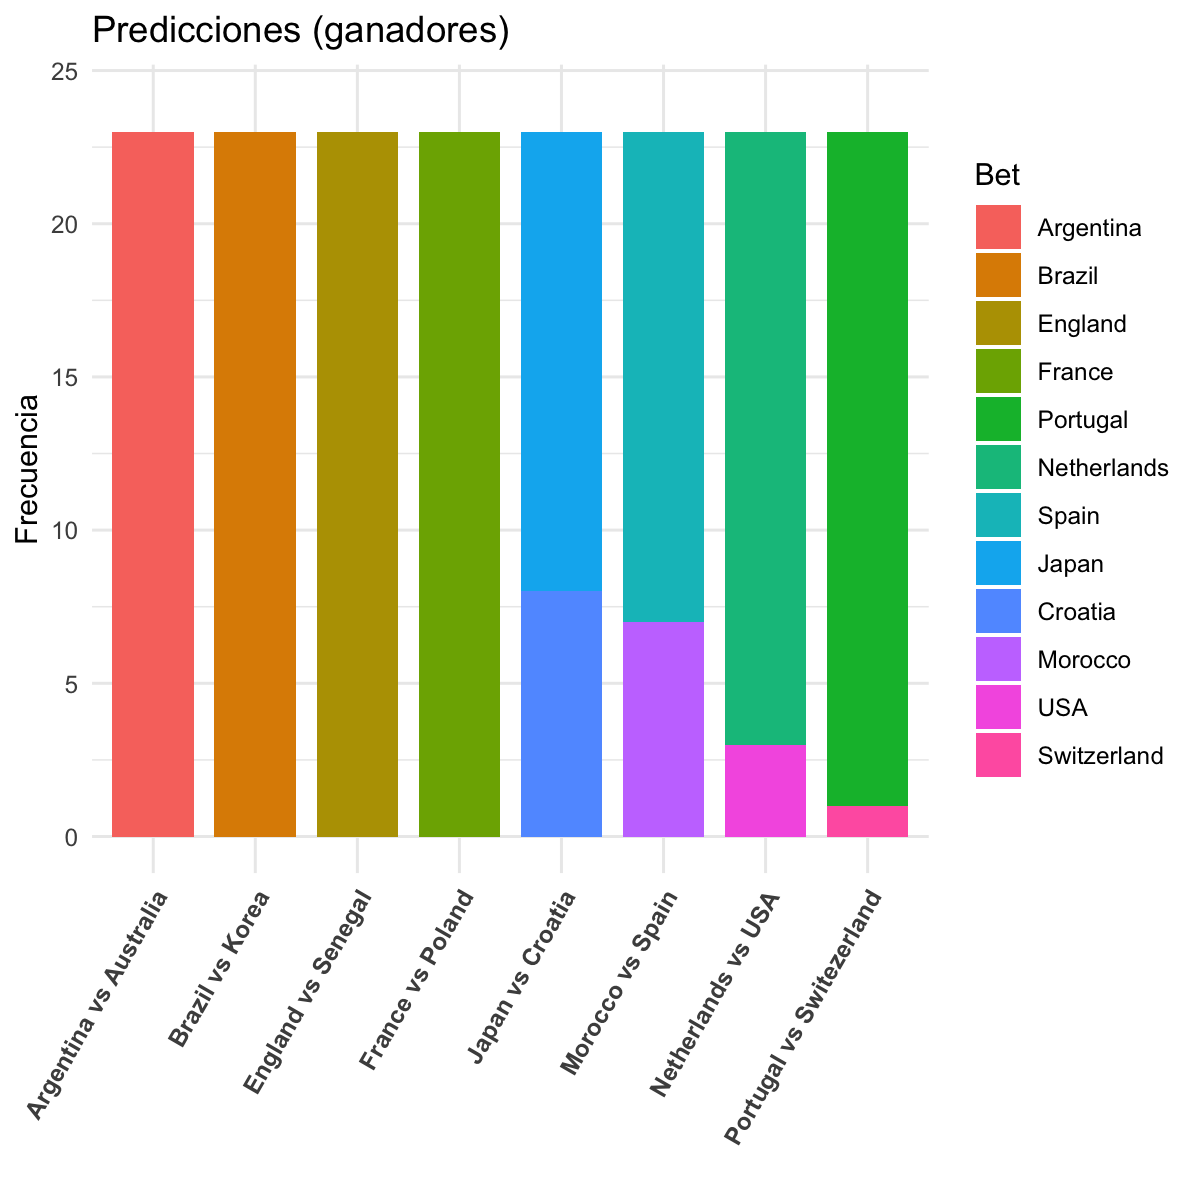
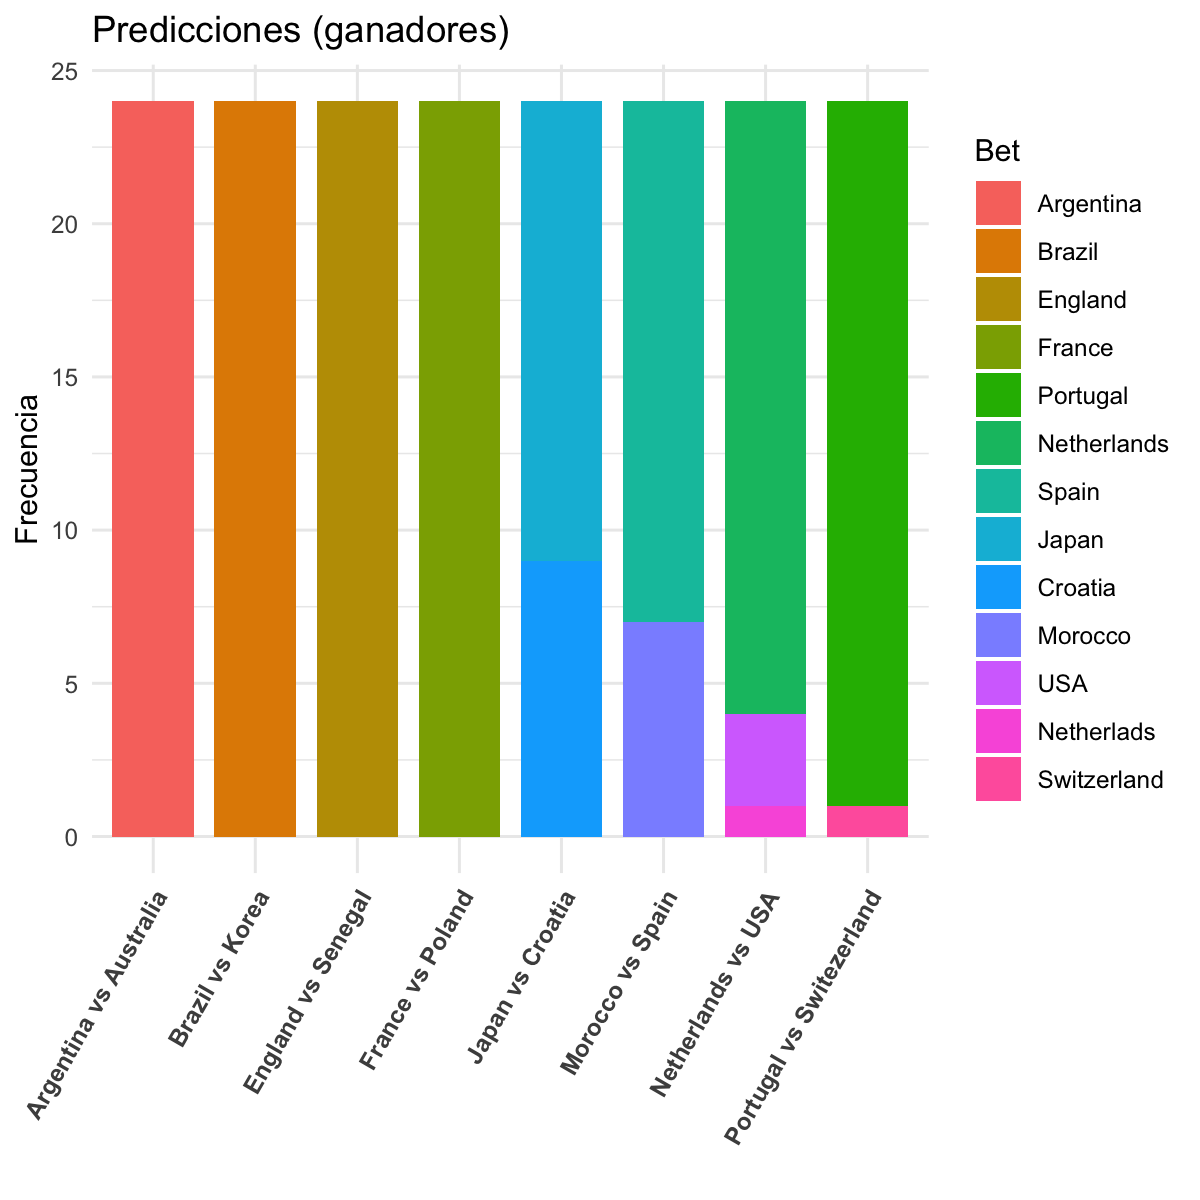
automatic README update

Changed region(s): [[0.0925, 0.0617, 0.7708, 0.7092], [0.8017, 0.1233, 0.9867, 0.6783]]

diff --git a/README.md b/README.md
@@ -13,7 +13,7 @@ Este es el repositorio de la quiniela Qatar 2022. Aqui se publicarán las picks 
 
 
 
-Última actualización: Sun  4 Dec 2022 08:02:49 EST.
+Última actualización: Sun  4 Dec 2022 08:48:20 EST.
 
 
 # **Puntuaciones**
@@ -90,6 +90,7 @@ Este es el repositorio de la quiniela Qatar 2022. Aqui se publicarán las picks 
 | 009                 | Luis Temo Marquez             | USA                | Argentina              | France           | England            | Croatia          | Brazil          | Spain            | Portugal                 |
 | 010                 | Fosi                          | Netherlands        | Argentina              | France           | England            | Croatia          | Brazil          | Spain            | Portugal                 |
 | 011                 | Jacob                         | Netherlands        | Argentina              | France           | England            | Japan            | Brazil          | Morocco          | Portugal                 |
+| 012                 | Ibrahim T                     | Netherlads         | Argentina              | France           | England            | Croatia          | Brazil          | Spain            | Portugal                 |
 | 012                 | Ibrahim T                     | NA                 | NA                     | NA               | NA                 | NA               | NA              | NA               | NA                       |
 | 013                 | Ruben                         | Netherlands        | Argentina              | France           | England            | Japan            | Brazil          | Spain            | Portugal                 |
 | 014                 | Valentin                      | Netherlands        | Argentina              | France           | England            | Japan            | Brazil          | Spain            | Portugal                 |
@@ -124,6 +125,7 @@ Este es el repositorio de la quiniela Qatar 2022. Aqui se publicarán las picks 
 | 009                 | Luis Temo Marquez             | 1-2                      | 3-1                          | 2-0                    | 2-0                      | 0-1                    | 3-1                   | 2-3                    | 1-0                           |
 | 010                 | Fosi                          | 1-0                      | 2-0                          | 2-1                    | 3-0                      | 1-1                    | 2-1                   | 0-1                    | 2-1                           |
 | 011                 | Jacob                         | 2-1                      | 3-1                          | 2-0                    | 3-2                      | 1-0                    | 2-0                   | 1-0                    | 2-0                           |
+| 012                 | Ibrahim T                     | 0-0                      | 0-0                          | 2-0                    | 3-0                      | 1-0                    | 2-1                   | 3-0                    | 2-2                           |
 | 012                 | Ibrahim T                     | NA                       | NA                           | NA                     | NA                       | NA                     | NA                    | NA                     | NA                            |
 | 013                 | Ruben                         | 2-1                      | 3-1                          | 2-0                    | 1-0                      | 2-1                    | 2-0                   | 2-0                    | 2-1                           |
 | 014                 | Valentin                      | 1-0                      | 3-0                          | 2-0                    | 3-1                      | 2-1                    | 4-1                   | 2-1                    | 2-1                           |
